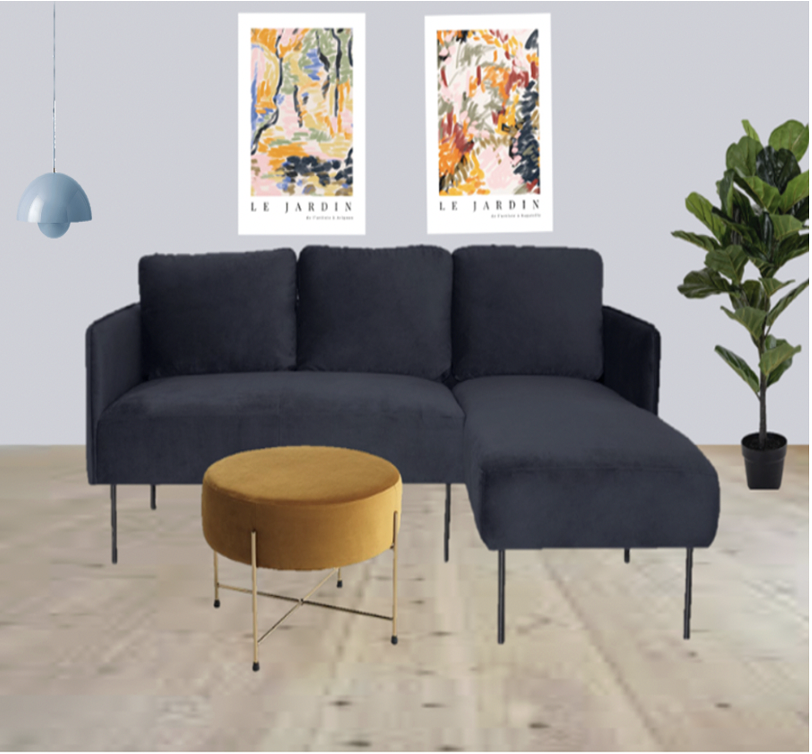
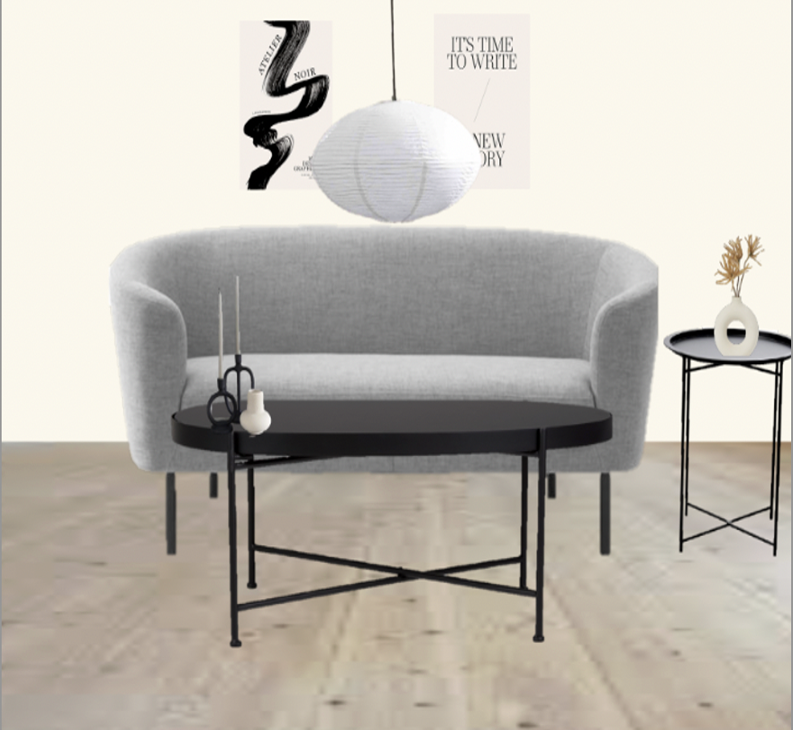
online mag

diff --git a/indretning.html b/indretning.html
@@ -15,6 +15,7 @@
 </head>
 
 <body>
+  	<!-- navbar -->
 
   <div id="wrap">
 
@@ -63,6 +64,7 @@
 
 </div>
 
+
 <div class="h1">
   <h1 style="text-align:center;">Indret din stue på budget</h1> </div>
 
@@ -70,6 +72,8 @@
 
 <div class="h2">
   <h2 style="text-align:center;">af Sophia Lehrskov - 13. oktober 2021</h2> </div>
+
+  	<!-- artikler -->
 
   <div class="p">
     <p style="text-align:justify">
@@ -102,25 +106,26 @@ Jeg kommer med tre bud på, hvordan man kan indrette sin stue hvis pengene ikke 
       </p>
   </div>
 
-  <div class="h22">
-    <h2 style="text-align:center">Den minimalitiske stue</h2>
-  </div>
 
-    <img class="sofa1"src="image/stue2.png" alt="budgetvenling minimalsime">
+<div class="h22">
+<h2 style="text-align:center">Den minimalistiske stue</h2>
+</div>
 
-    <div class="p2">
-      <p style="text-align:justify">
-  Denne indretning har fokus på rene linjer, afdæmpede farver og et helt enkelt udtryk. I det minimalistiske univers er der meget få elementer i indretningen. Alle elementer i denne stue kan købes for 4.143 kr.
-            Link til:<a href="https://ilva.dk/stuen/sofaer/2-og-3-personers-sofaer/cosy/diva-30-graa-stof/p-1055488-5642085662/">sofa</a>
-            Link til:<a href="https://www.myhomemøbler.dk/stue/sofaborde/glasbord-teardrop-sort/c-24/c-82/p-19066/">sofabord</a>
-            Link til:<a href="https://ilva.dk/stuen/hjoerne-bakkeborde/bona/sort-metal/p-1048051-5641145863/">sidetable</a>
-            Link til:<a href="https://www2.hm.com/da_dk/productpage.0930343001.html">lysestager</a>
-            Link til:<a href="https://www2.hm.com/da_dk/productpage.0812790001.html">vase</a>
-            Link til:<a href="https://ilva.dk/lamper/loftlamper/riisi-oval/hvid-rispapir-uden-ophaeng/p-1063807-5642441994/?gclid=CjwKCAjwh5qLBhALEiwAioods-DxwSNAMYwfT01fb5m9hoczkAWkwKqVT1lSD8qwjFZ-PPRJnNAtVhoCll4QAvD_BwE">lampe</a>
-            Link til:<a href="https://desenio.dk/dk/a-new-story-plakat">plakat1</a>
-            Link til:<a href="https://desenio.dk/dk/black-brush-stroke-plakat">plakat2</a>
-        </p>
-    </div>
+<img class="sofa1"src="image/stue.png" alt="sofaen i fokus">
+
+<div class="p2">
+  <p style="text-align:justify">
+    Denne indretning har fokus på rene linjer, afdæmpede farver og et helt enkelt udtryk. I det minimalistiske univers er der manget få elementer i indretningen, hvilket gør at man omhyggeligt skal vælge præcis de elememter man sel vil have. Alle produkter kan købes for 4.143kr.
+        Link til:<a href="https://ilva.dk/stuen/sofaer/2-og-3-personers-sofaer/cosy/diva-30-graa-stof/p-1055488-5642085662/ ">sofa</a>
+        Link til:<a href="https://www.myhomemøbler.dk/stue/sofaborde/glasbord-teardrop-sort/c-24/c-82/p-19066/">sofabord</a>
+        Link til:<a href="https://ilva.dk/stuen/hjoerne-bakkeborde/bona/sort-metal/p-1048051-5641145863/">sidetable</a>
+        Link til:<a href="https://www2.hm.com/da_dk/productpage.0930343001.html ">lysestager</a>
+        Link til:<a href="https://ilva.dk/lamper/loftlamper/riisi-oval/hvid-rispapir-uden-ophaeng/p-1063807-5642441994/?gclid=CjwKCAjwh5qLBhALEiwAioods-DxwSNAMYwfT01fb5m9hoczkAWkwKqVT1lSD8qwjFZ-PPRJnNAtVhoCll4QAvD_BwE">lampe</a>
+        Link til:<a href="https://desenio.dk/dk/a-new-story-plakat">plakat1</a>
+        Link til:<a href="https://desenio.dk/dk/black-brush-stroke-plakat">plakat2</a>
+    </p>
+</div>
+
 
     <div class="h22">
       <h2 style="text-align:center">Den farverige stue</h2>
@@ -133,13 +138,14 @@ Jeg kommer med tre bud på, hvordan man kan indrette sin stue hvis pengene ikke 
           Den farverige stue emmer af hygge og personlighed. Du har mange muligheder for at style farverne lige som du har lyst til. Puffen giver et hyggeligt udtryk og er på samme tid rigtig praktisk, da det kan bruges som en ekstra stol hvis du har mange gæster. Denne indretning koster i alt 4.159 kr,
               Link til:<a href="https://www.myhomemøbler.dk/stue/sofaer/chaiselong-sofa/rachel-pers-med-chaiselong-blaa-velour-hoejrevendt/c-24/c-221/p-16737/?gclid=Cj0KCQjwqp-LBhDQARIsAO0a6aLgDULBYHHOFzU74xRDqCV5bYm-rp18Zx-QKbonhmXdHDXBIsnx4CQaAlyIEALw_wcB">sofa</a>
               Link til:<a href="https://jysk.dk/stue/puffer/puf-padborg-oe62-velour-karry-guld">puf</a>
-              Link til:<a href="https://ilva.dk/stuen/hjoerne-bakkeborde/bona/sort-metal/p-1048051-5641145863/">sidetable</a>
               Link til:<a href="https://takkliving.dk/products/violinfigen?utm_source=adtraction&utm_medium=affiliate&utm_campaign=adtraction&at_gd=E49B58370C453F5F14FBC2B46E37C23757A3AD95&variant=31849000304723 ">træ</a>
               Link til:<a href="https://andlight.dk/shop/tradition-flowerpot-vp1-12954p.html?utm_source=google&utm_medium=organic&utm_campaign=surfaces&gclid=CjwKCAjwk6-LBhBZEiwAOUUDp5KT3g6uod73WnlxXcApJhdZEX5DGu6fa2cBn-Lg_VvYgwYb0sEQSBoConAQAvD_BwE">lampe</a>
               Link til:<a href="https://desenio.dk/dk/le-jardin-no2-plakat">plakat1</a>
               Link til:<a href="https://desenio.dk/dk/le-jardin-no1-plakat">plakat2</a>
           </p>
       </div>
+
+      	<!-- footer-->
 
 <div class="footer-basic">
 

diff --git a/mode.html b/mode.html
@@ -6,6 +6,7 @@
 
 	<title> Livet på budget</title>
 	<meta name="author" content="Sophia Lehrskov">
+  <meta name="viewport" content="width=device-width, initial-scale=1.0">
 	<meta name="description" content="Livet på budget er en side fyldt med tips, tricks og inspiration til hvordan man lever budgetvenlig uden at gå på kompromis, studerene, aarhus, su, Indretning, mode, mad, hverdagsmad">
 	<link rel="stylesheet" href="CSS/style1.css">
 
@@ -17,6 +18,7 @@
 
   <div id="wrap">
 
+	<!-- navbar -->
 <div class="topnav">
   <nav>
 
@@ -64,7 +66,7 @@
 
 </div>
 
-
+	<!-- favicon = ikon i faneblad / browser -->
 
 <div class="h11">
   <img class="stue44"src="image/tøj.png" alt="tøj på budget">
@@ -78,6 +80,7 @@
   <h2 style="text-align:center;">af Sophia Lehrskov - 13. oktober 2021</h2> </div>
 
 
+	<!-- artikler -->
   <div class="p">
     <p style="text-align:justify">
  Den danske vinter nærmer sig, bladene på træerne falder langsomt i takt med at vejret bliver koldere og mørkere. En pæn jakke, en smart hue eller et blødt halstorklæde er derfor et must, også selv om man lever på et stramt budget.</p>
@@ -212,6 +215,7 @@ Især 2 typer vinter jakker går aldrig af mode, nemlig dunjakken og uldfrakken.
             </p>
         </div>
 
+	<!-- footer-->
         <div class="footer-basic">
                <footer>
                    <div class="social">

diff --git a/opskrifter.html b/opskrifter.html
@@ -17,6 +17,7 @@
 <body>
 
   <div id="wrap">
+			<!-- navbar -->
 
 <div class="topnav">
   <nav>
@@ -76,6 +77,8 @@
 
 	</div>
 
+		<!-- opskrift-->
+
 	<div class="p">
 		<p style="text-align:justify">
 			Får du gæster? Skal du lave mad til kæresten eller bare dig selv er lasagne altid en vinder. Den er både billig at handle ind til og samtidig let at lave.
@@ -91,6 +94,8 @@ Alle ingredienserne kan findes billigt Rema1000.
 	</div>
 
 	<img class="opskift"src="image/opskrift.png" alt="opskift på budgetvenlig lasagne">
+
+	<!-- footer-->
 
 <div class="footer-basic">
 

diff --git a/CSS/style1.css b/CSS/style1.css
@@ -37,7 +37,7 @@ nav ul li a{
   font-family: sans-serif;
   color: var(--beige);
   font-size: 12px;
-  padding: 30px 80px;
+  padding: 20px 65px;
   text-decoration:none;
 }
 
@@ -70,6 +70,7 @@ background-color:var(--brown);
 .logo{
   width: 6%;
   float: inherit;
+  height: auto;
 }
 
 
@@ -89,8 +90,8 @@ background-color:var(--brown);
 
 .stue44{
   position: relative;
-  width: 40%;
-  max-width: 1000px;
+  width: 35%;
+  max-width: 80%;
   display: flex;
   height: auto;
  margin-left: 18%;

diff --git a/index.html b/index.html
@@ -15,7 +15,7 @@
 </head>
 
 <body>
-
+	<!-- navbar -->
 	<div id="wrap">
 
 		<div class="topnav">
@@ -87,6 +87,7 @@
 			</div>
 		</div>
 
+	<!-- visning af nyeste artikler -->
 
 		<div class="h1">
 			<h1 style="text-align:center;"> NYESTE ARTIKLER: MODE</h1>
@@ -135,6 +136,7 @@
 		</div>
 </div>
 
+	<!-- footer -->
 		<div class="footer-basic">
 			<footer>
 				<div class="social">

diff --git a/CSS/style.css b/CSS/style.css
@@ -37,7 +37,7 @@ nav ul li a{
   font-family: sans-serif;
   color: var(--beige);
   font-size: 12px;
-  padding: 30px 80px;
+  padding: 20px 65px;
   text-decoration:none;
 }
 
@@ -78,7 +78,7 @@ background-color:var(--brown);
 #slideshow {
   overflow: hidden;
   height: auto;
-  width: 70%;
+  width: 850px;
   margin: 0 auto;
 }
 

diff --git a/CSS/style2.css b/CSS/style2.css
@@ -37,7 +37,7 @@ nav ul li a{
   font-family: sans-serif;
   color: var(--beige);
   font-size: 12px;
-  padding: 30px 80px;
+  padding: 20px 65px;
   text-decoration:none;
 }
 
@@ -70,6 +70,7 @@ background-color:var(--brown);
 .logo{
   width: 6%;
   float: inherit;
+  height: auto;
 }
 
 .h1{

diff --git a/README.md b/README.md
@@ -2,4 +2,4 @@
 
 Her er mit online magazine, der hander om hvordan man kan leve livet på budget, uden at gå for meget på kompromis.
 
-Se fungerende prototype her;http://magasin.sophialehrskov.dk/index.html
+Se fungerende prototype her;
